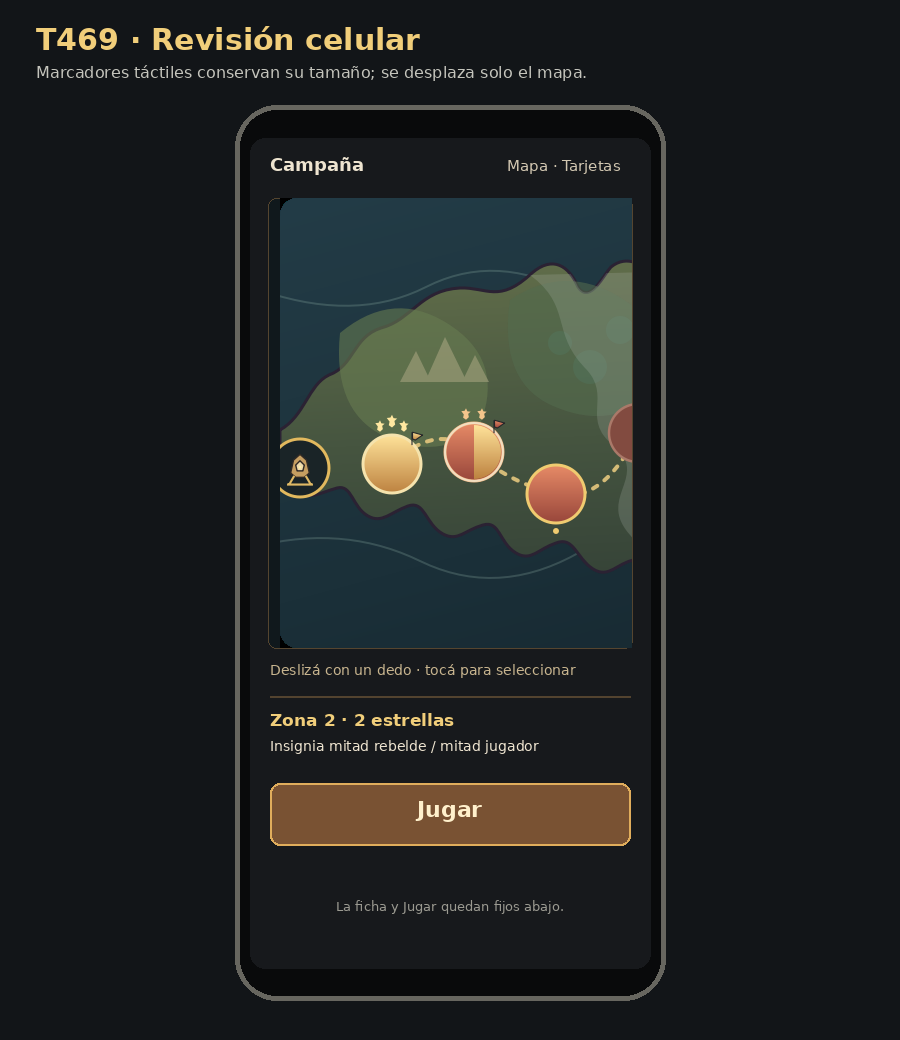
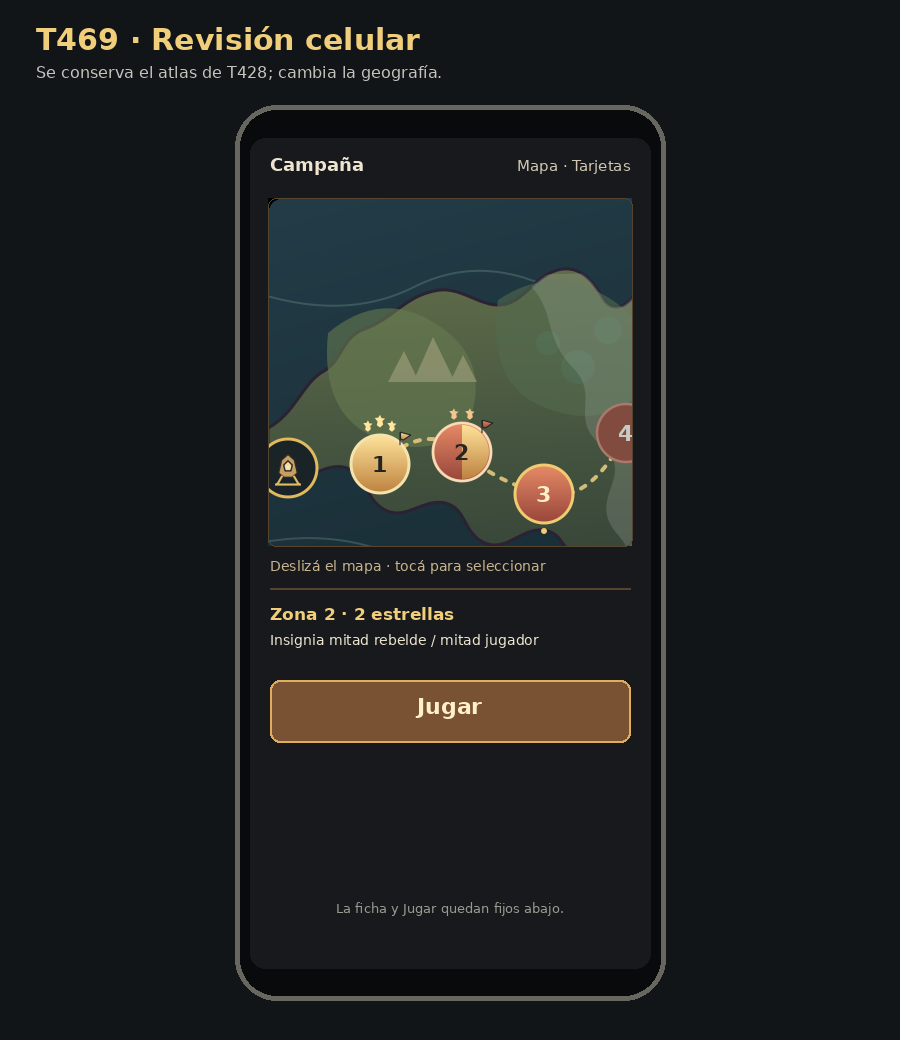
T469: rehacer muestra geográfica al estilo de T428

diff --git a/art/t469-mapa-propuesta/index.html b/art/t469-mapa-propuesta/index.html
@@ -45,12 +45,15 @@
 <body>
   <header>
     <h1>T469 · Mapa planetario e insignias</h1>
-    <p>Propuesta editable basada en el atlas aprobado de T427 y el mapa aplicado por T428. Es una revisión visual: no es el arte final ni una captura del juego.</p>
+    <p>Propuesta editable que conserva la ilustración, paleta y presentación del atlas aplicado por T428. La revisión modifica la geografía y los estados ilustrativos del mapa; no es arte final ni una captura del juego.</p>
   </header>
   <main>
     <p class="notice"><strong>Para revisar:</strong> la costa, el recorrido oeste→este, los biomas, la escala de las regiones y la lectura de los tres estados de conquista. Todas las posiciones y el progreso son ilustrativos.</p>
     <section class="view">
       <h2>PC · mapa completo, sin desborde</h2>
+      <p class="caption">Comparación con T428: se mantiene el marco, las pestañas, la ficha y los controles. Se reemplaza solo el área geográfica del mapa.</p>
+      <div class="map-frame"><img src="../../Capturas/t469-mapa-pc.png" alt="La pantalla de T428 con solo el mapa reemplazado por la nueva propuesta"></div>
+      <p class="caption">Propuesta vectorial editable:</p>
       <div class="map-frame"><img src="mapa.svg" alt="Mapa de campaña con quince regiones en una ruta de oeste a este"></div>
       <div class="legend"><span><i class="swatch owned"></i> 3 estrellas · insignia del jugador</span><span><i class="swatch partial"></i> 1–2 estrellas · insignia dividida</span><span><i class="swatch locked"></i> 0 estrellas · insignia rebelde; candado si está bloqueada</span></div>
       <p class="caption">En PC entran las quince zonas sin reducir el tamaño de los marcadores. No se repiten rótulos de estado; el candado mantiene identificables las zonas inaccesibles.</p>

diff --git a/art/t469-mapa-propuesta/render_captures.py b/art/t469-mapa-propuesta/render_captures.py
@@ -1,5 +1,5 @@
 #!/usr/bin/env python3
-"""Renderizá las capturas de revisión desde mapa.svg (Godot 4 y Pillow)."""
+"""Rasterizá el mapa vectorial y reemplazá solo el área del mapa T428."""
 from pathlib import Path
 import json
 import subprocess
@@ -9,7 +9,6 @@ from PIL import Image, ImageDraw, ImageFont
 
 HERE = Path(__file__).resolve().parent
 ROOT = HERE.parents[1]
-GODOT = "godot"
 FONT = "/usr/share/fonts/truetype/dejavu/DejaVuSans.ttf"
 FONT_BOLD = "/usr/share/fonts/truetype/dejavu/DejaVuSans-Bold.ttf"
 
@@ -25,69 +24,74 @@ def round_rect(draw: ImageDraw.ImageDraw, box: tuple[int, int, int, int], radius
 def main() -> None:
     with tempfile.TemporaryDirectory(prefix="t469-preview-") as temp:
         temp_path = Path(temp)
-        svg_path = str(HERE / "mapa.svg")
-        png_path = str(temp_path / "mapa.png")
+        png_path = temp_path / "mapa.png"
         script = temp_path / "render.gd"
         script.write_text(
             "extends SceneTree\n"
             "func _initialize() -> void:\n"
-            f"\tvar file := FileAccess.open({json.dumps(svg_path)}, FileAccess.READ)\n"
+            f"\tvar file := FileAccess.open({json.dumps(str(HERE / 'mapa.svg'))}, FileAccess.READ)\n"
             "\tvar image := Image.new()\n"
             "\tvar result := image.load_svg_from_string(file.get_as_text(), 1.0)\n"
             "\tif result != OK:\n\t\tquit(1)\n\t\treturn\n"
-            f"\tif image.save_png({json.dumps(png_path)}) != OK:\n\t\tquit(1)\n\t\treturn\n"
+            f"\tif image.save_png({json.dumps(str(png_path))}) != OK:\n\t\tquit(1)\n\t\treturn\n"
             "\tquit()\n",
             encoding="utf-8",
         )
-        subprocess.run([GODOT, "--headless", "--path", temp, "--script", str(script)], check=True)
+        subprocess.run(["godot", "--headless", "--path", temp, "--script", str(script)], check=True)
         map_image = Image.open(png_path).convert("RGB")
+        # Godot rasteriza formas e ilustraciones, pero no conserva texto SVG;
+        # dibujamos los números con la misma tipografía sans en su posición vectorial.
+        draw = ImageDraw.Draw(map_image)
+        for level, (x, y) in enumerate([
+            (112, 266), (194, 254), (276, 296), (358, 235), (440, 278),
+            (522, 310), (604, 246), (686, 286), (768, 314), (850, 250),
+            (932, 291), (1014, 318), (1096, 245), (1178, 283), (1260, 308),
+        ], start=1):
+            color = "#25241f" if level == 1 else "#282522" if level == 2 else "#fff0c7" if level == 3 else "#c7cbc2"
+            draw.text((x, y), str(level), font=font(22, True), fill=color, anchor="mm")
 
     out = ROOT / "Capturas"
     out.mkdir(exist_ok=True)
 
-    # PC: las quince regiones y la leyenda entran completas en el viewport.
-    pc = Image.new("RGB", (1280, 720), "#121518")
+    # PC: conservar la captura y la interfaz de T428; sustituir solo el mapa.
+    pc = Image.open(ROOT / "art/t428-mapa-propuesta/captura_producto_1280x720.png").convert("RGB")
+    map_pc = map_image.resize((996, 377), Image.Resampling.LANCZOS)
+    pc.paste(map_pc, (142, 142))
     d = ImageDraw.Draw(pc)
-    d.rectangle((0, 0, 1280, 84), fill="#1b1d20")
-    d.line((0, 83, 1280, 83), fill="#634c31", width=2)
-    d.text((40, 14), "T469 · Mapa planetario e insignias", font=font(26, True), fill="#f1ce7a")
-    d.text((40, 51), "PC · 1280 × 720 · mapa completo, sin desborde · progreso ilustrativo", font=font(14), fill="#c4c4bc")
-    round_rect(d, (24, 100, 1256, 696), 16, "#1a1d20", "#42413b", 2)
-    d.text((48, 112), "Campaña · atlas", font=font(18, True), fill="#f1ce7a")
-    scaled_map = map_image.resize((1184, 404), Image.Resampling.LANCZOS)
-    pc.paste(scaled_map, (48, 146))
-    for x, color, label in [
-        (62, "#bd8240", "3 estrellas · jugador"),
-        (250, "#98463b", "1–2 estrellas · insignia dividida"),
-        (500, "#98463b", "0 estrellas · rebelde; candado si está bloqueada"),
+    d.text((154, 151), "ATLAS MERIDIANO · CÁNTARO", font=font(10), fill="#e3d6b6")
+    # Reemplaza la vieja leyenda de T428, cuyos estados y términos ya no aplican.
+    round_rect(d, (952, 148, 1167, 227), 2, "#1a1d20", "#805b38", 1)
+    for y, color, label in [
+        (168, "#bd8240", "3 estrellas · jugador"),
+        (190, "#98463b", "1–2 estrellas · parcial"),
+        (212, "#525a5b", "Sin victoria · sin acceso"),
     ]:
-        d.ellipse((x - 8, 572, x + 8, 588), fill=color, outline="#e5d9b7", width=2)
-        if x == 250:
-            d.pieslice((x - 7, 573, x + 7, 587), 270, 90, fill="#bd8240")
-        d.text((x + 16, 571), label, font=font(13), fill="#d7d3c7")
-    d.text((48, 632), "15 zonas · recorrido en serrucho oeste→este · estados de muestra", font=font(13), fill="#aaa99f")
+        d.ellipse((961, y - 7, 975, y + 7), fill=color, outline="#ded3b6", width=1)
+        d.text((981, y - 7), label, font=font(11), fill="#ded8cb")
     pc.save(out / "t469-mapa-pc.png", optimize=True)
 
-    # Celular: el lienzo se desplaza; ficha y acción quedan fuera de ese recorte.
+    # Celular: el mismo mapa ilustrado, con desplazamiento horizontal; ficha y acción fijas.
     mobile = Image.new("RGB", (900, 1040), "#121518")
     d = ImageDraw.Draw(mobile)
     d.text((36, 22), "T469 · Revisión celular", font=font(30, True), fill="#f1ce7a")
-    d.text((36, 63), "Marcadores táctiles conservan su tamaño; se desplaza solo el mapa.", font=font(16), fill="#c4c4bc")
+    d.text((36, 63), "Se conserva el atlas de T428; cambia la geografía.", font=font(16), fill="#c4c4bc")
     round_rect(d, (235, 105, 665, 1000), 42, "#090a0b", "#67665f", 5)
     round_rect(d, (250, 138, 650, 968), 15, "#17191c")
     d.text((270, 154), "Campaña", font=font(18, True), fill="#eee4d0")
-    d.text((620, 157), "Mapa · Tarjetas", font=font(15), fill="#d1c6b0", anchor="ra")
-    round_rect(d, (268, 198, 632, 648), 8, "#10181c", "#55452f", 1)
-    crop = map_image.crop((0, 0, 352, 450))
-    mobile.paste(crop, (280, 198))
+    d.text((630, 157), "Mapa · Tarjetas", font=font(15), fill="#d1c6b0", anchor="ra")
+    map_mobile = map_image.resize((1320, 450), Image.Resampling.LANCZOS)
+    viewport = Image.new("RGB", (364, 348), "#10181c")
+    viewport.paste(map_mobile.crop((0, 0, 364, 348)))
+    mobile.paste(viewport, (268, 198))
     d = ImageDraw.Draw(mobile)
-    d.text((270, 662), "Deslizá con un dedo · tocá para seleccionar", font=font(14), fill="#c7b48e")
-    d.line((270, 696, 630, 696), fill="#53432f", width=2)
-    d.text((270, 710), "Zona 2 · 2 estrellas", font=font(17, True), fill="#f1ce7a")
-    d.text((270, 738), "Insignia mitad rebelde / mitad jugador", font=font(14), fill="#eee4d0")
-    round_rect(d, (270, 783, 630, 845), 10, "#795233", "#e0ad5c", 2)
-    d.text((450, 796), "Jugar", font=font(22, True), fill="#fff0cc", anchor="ma")
-    d.text((450, 898), "La ficha y Jugar quedan fijos abajo.", font=font(13), fill="#9b9a91", anchor="ma")
+    round_rect(d, (268, 198, 632, 546), 8, None, "#55452f", 1)
+    d.text((270, 558), "Deslizá el mapa · tocá para seleccionar", font=font(14), fill="#c7b48e")
+    d.line((270, 588, 630, 588), fill="#53432f", width=2)
+    d.text((270, 604), "Zona 2 · 2 estrellas", font=font(17, True), fill="#f1ce7a")
+    d.text((270, 632), "Insignia mitad rebelde / mitad jugador", font=font(14), fill="#eee4d0")
+    round_rect(d, (270, 680, 630, 742), 10, "#795233", "#e0ad5c", 2)
+    d.text((450, 693), "Jugar", font=font(22, True), fill="#fff0cc", anchor="ma")
+    d.text((450, 900), "La ficha y Jugar quedan fijos abajo.", font=font(13), fill="#9b9a91", anchor="ma")
     mobile.save(out / "t469-mapa-celular.png", optimize=True)
 
 

diff --git a/art/t469-mapa-propuesta/README.md b/art/t469-mapa-propuesta/README.md
@@ -1,6 +1,6 @@
 # T469 · Muestra del mapa planetario e insignias
 
-Maqueta artística editable para revisar la geografía de campaña y los tres estados de la insignia. Parte del marco, el mar, el relieve, la paleta y el aterrizaje del mapa aplicado por T428, presentado originalmente en `art/t427-mapa-propuesta/`. No reemplaza esa muestra aprobada ni se integra al juego.
+Maqueta artística editable para revisar la geografía de campaña y los tres estados de la insignia. Conserva la presentación visual del mapa de T428: mar, contornos, relieve, paleta y lenguaje de sus marcadores. La captura de PC conserva la pantalla de T428 y reemplaza solo el rectángulo del mapa. No se integra al juego.
 
 ## Archivos
 
@@ -13,8 +13,8 @@ Maqueta artística editable para revisar la geografía de campaña y los tres es
 
 Las capturas muestran la PC con el mapa completo, y el celular con el lienzo desplazable a escala 1:1: cada círculo mide 58 px lógicos; selección, ficha y acción «Jugar» quedan fuera del área desplazable. El ajuste compacto se presenta en el visor como comparación descartada, no como solución.
 
-Las siete manchas son estudios de ubicación y lectura de los temas ya canónicos (`pradera`, `bosque`, `desierto`, `pantano`, `nieve`, `ruinas`, `volcán`); no fijan su arte, distribución final ni la asignación definitiva de niveles. Un velo gris de borde orgánico representa tierras sin conquistar después del ejemplo de las zonas 1 y 2; no define límites jugables. Las coordenadas del aterrizaje, las zonas y el recorrido son propuestas para que Lucas las revise.
+Las siete manchas son estudios de ubicación y lectura de los temas ya canónicos (`pradera`, `bosque`, `desierto`, `pantano`, `nieve`, `ruinas`, `volcán`); no fijan su arte, distribución final ni la asignación definitiva de niveles. Un velo gris de borde orgánico representa tierras sin conquistar después del ejemplo de las zonas 1 y 2; no define límites jugables. Las coordenadas del aterrizaje, las zonas y el recorrido son propuestas para que Lucas las revise. La vista celular es una maqueta de revisión con el mismo lenguaje visual y un mapa desplazable.
 
-No se usaron imágenes ni fuentes externas. La captura se creó con Godot 4.7.2 para rasterizar el SVG, Pillow y DejaVu Sans instalado en el sistema. Pesos: `mapa.svg` **12.260 bytes**; `index.html` **6.400 bytes**; captura PC **160.363 bytes**; captura celular **66.606 bytes**. Las capturas no son assets del producto.
+La geografía, contornos y símbolos se dibujaron en el SVG de esta muestra. Las capturas se crean con Godot 4.7.2 para rasterizar el SVG, Pillow y DejaVu Sans instalado en el sistema. Las capturas no son assets del producto.
 
 Esta muestra no está aprobada. Antes de integrar cualquier cambio al mapa ejecutable, Lucas decide si aprueba la costa, el recorrido, los biomas, cada estado de insignia y la composición móvil, o pide ajustes. No se cambió lógica, datos de niveles, canon, reglas, balance ni arte runtime.

diff --git a/specs/03-tareas.md b/specs/03-tareas.md
@@ -2692,7 +2692,7 @@ El alcance de T425 a T432 es desktop. Mobile continúa por su propia experiencia
 - [x] **T469 · Muestra del mapa nuevo e insignias de conquista. `[mobile+x86]`**
   **Refs:** RF-691, RF-695, RF-652. **Depende de:** T459 aprobada; 🎨 Lucas aprueba muestra antes de integrar. **Ficha:** `specs/tareas/T469-muestra-mapa-insignias.md`.
   **Hecho cuando:** Hay fuente editable, procedencia, tamaños/peso y maqueta legible; Lucas puede aprobar cada pieza. No se declara aprobada por esta ficha.
-  **Resultado (2026-10-24):** propuesta editable en `art/t469-mapa-propuesta/`: costa y ruta oeste→este, 15 zonas, siete temas conceptuales canónicos y estados visuales ilustrativos. Visor con composición desktop y comparación móvil con desplazamiento frente al ajuste comprimido; capturas a escala en `Capturas/t469-mapa-*.png`. El mapa SVG mide 12.260 bytes; las capturas pesan 160.363 bytes (PC) y 66.606 bytes (celular). Captura reproducible con Godot 4.7.2 + Pillow; `git diff --check` y revisión visual pasaron. Sin importación del proyecto, GUT, teléfono real, integración ni aprobación de Lucas: la compuerta de arte sigue abierta.
+  **Resultado (2026-10-24):** propuesta revisada en `art/t469-mapa-propuesta/`: conserva la presentación, paleta, contornos, marco y escala de interfaz de T428; cambia solo la geografía del mapa en la comparación PC. Propone costa y ruta oeste→este, siete temas conceptuales y estados visuales ilustrativos de 15 marcadores. La maqueta celular enseña el desplazamiento del mapa con ficha y «Jugar» fijos. Capturas reproducibles con Godot 4.7.2 + Pillow; `git diff --check` y revisión visual pasaron. No se integró ni importó al juego y Lucas aún debe aprobar costa, ruta, biomas, insignias y composición celular. No se probó en teléfono real.
 
 - [ ] **T470 · Mapa inicial, migración e interacción PC/celular. `[mobile+x86]`**
   **Refs:** RF-687 a RF-690. **Depende de:** T459 aprobada; coordinar SaveManager con T461/T458. **Ficha:** `specs/tareas/T470-mapa-inicial-interaccion.md`.
